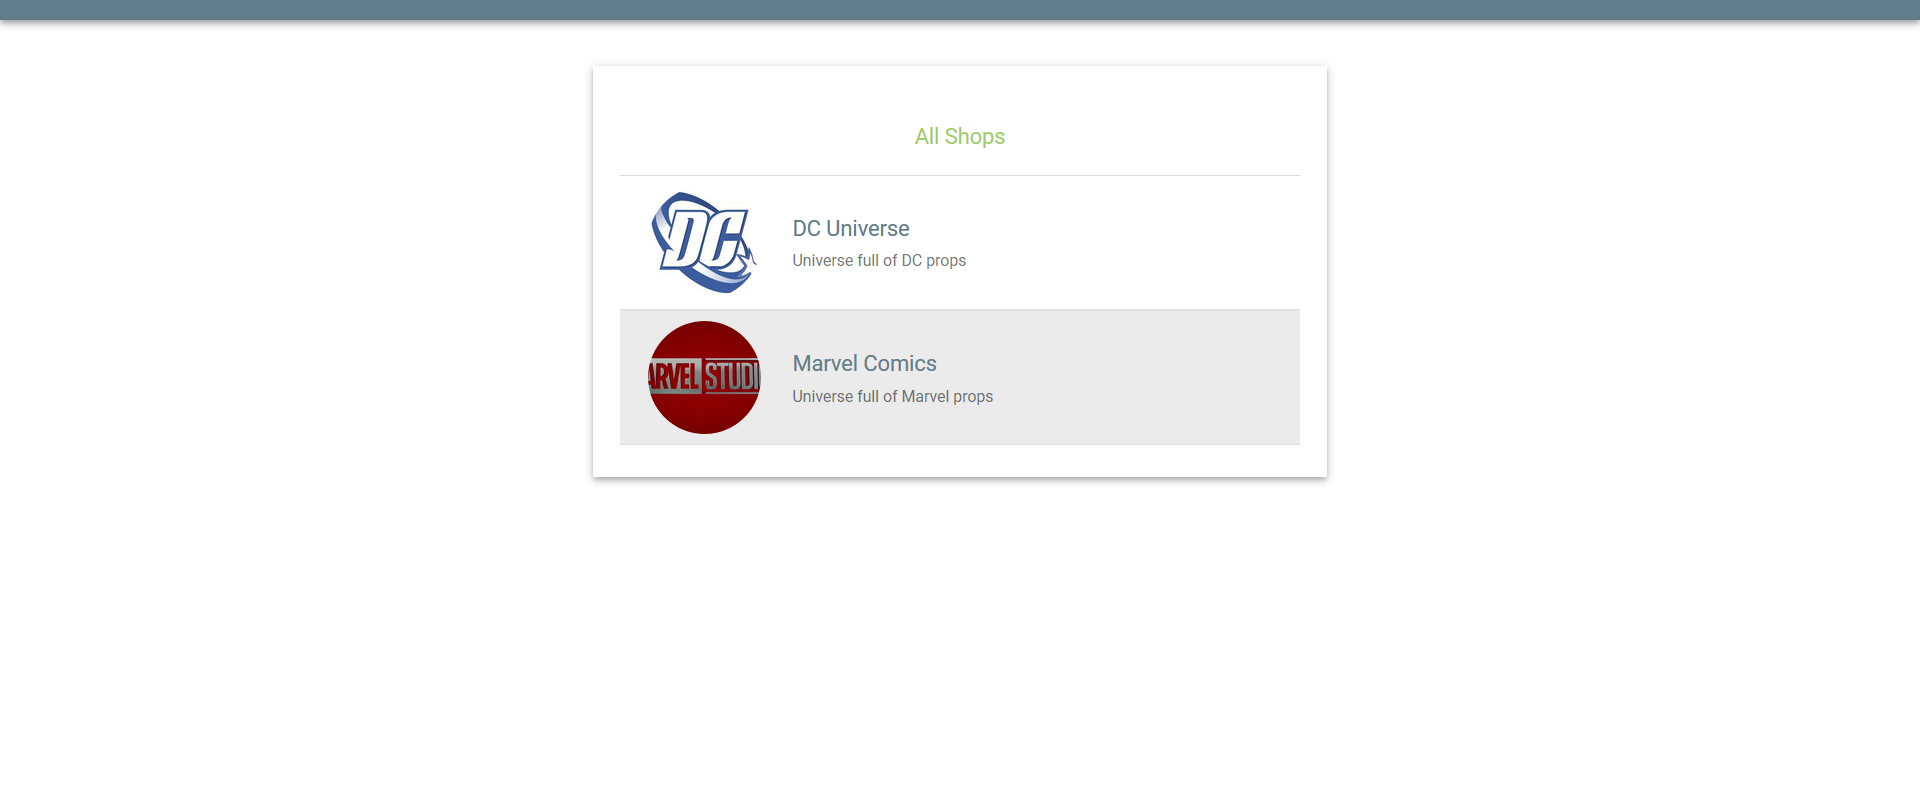
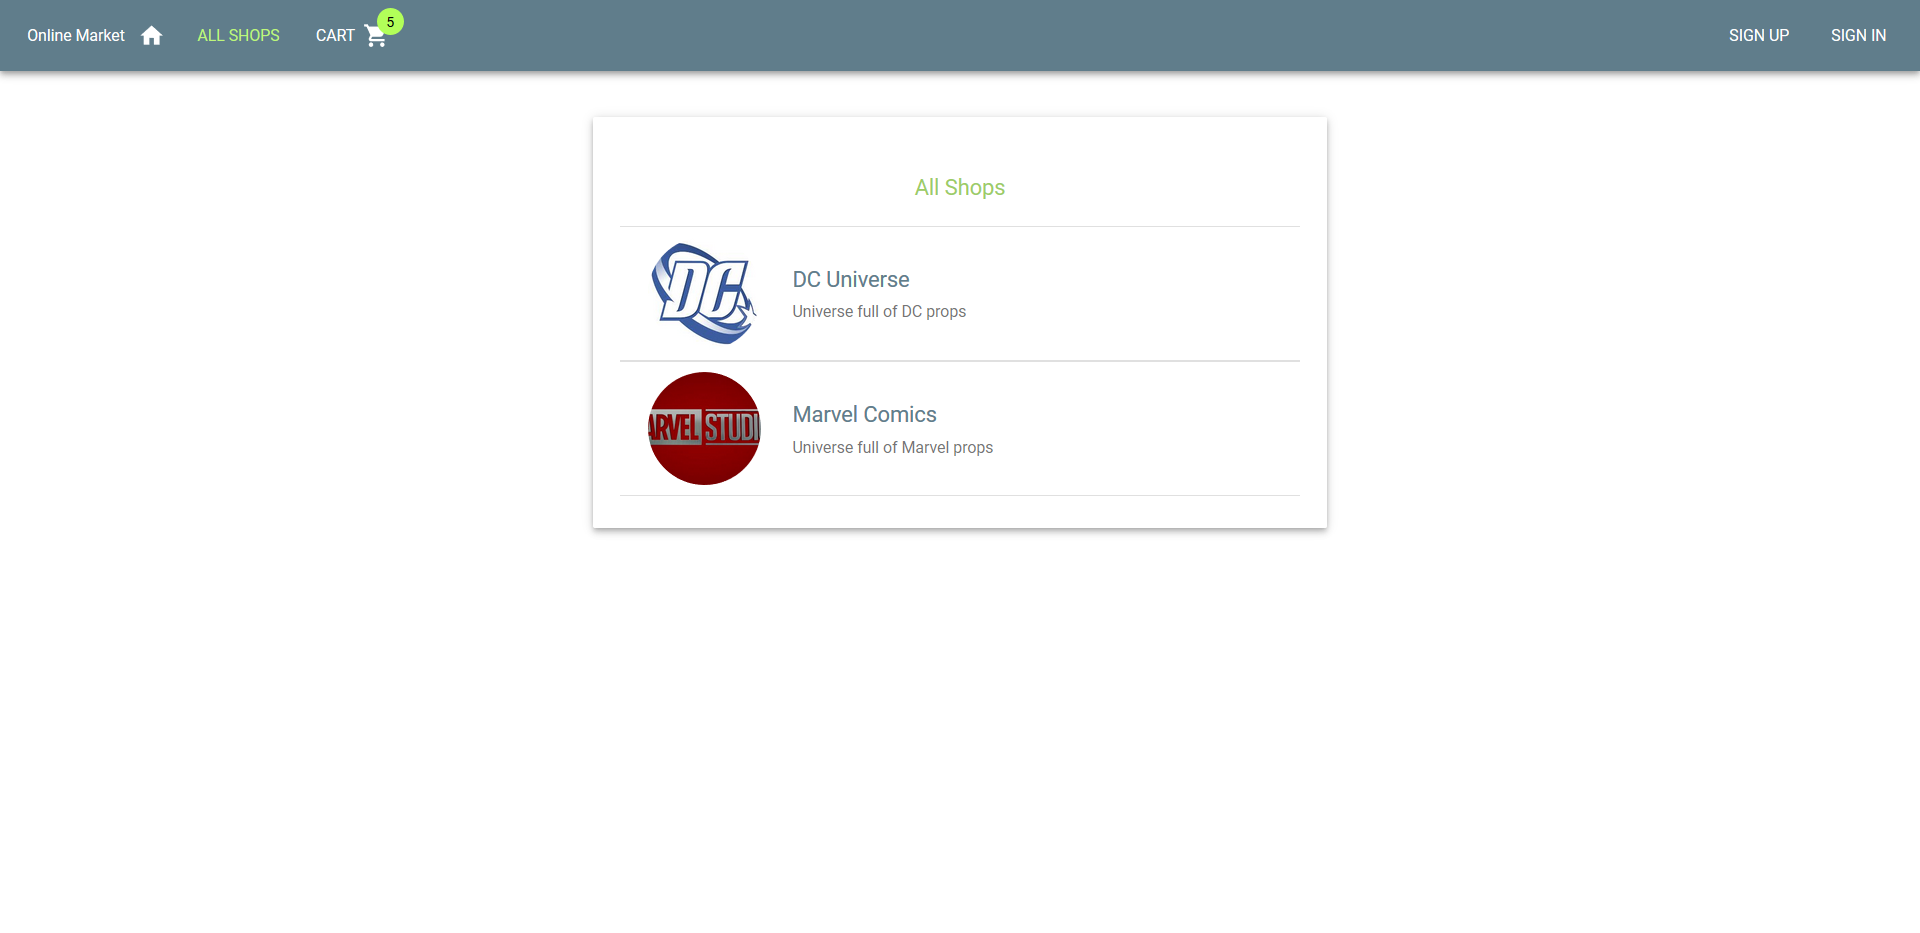
README Second Update

Changed region(s): [[0.0, 0.0, 1.0, 0.0902], [0.3125, 0.2406, 0.6875, 0.6015], [0.4688, 0.1504, 0.5312, 0.2105]]

diff --git a/template.js b/template.js
@@ -3,7 +3,7 @@ export default ({markup, css}) => {
       <html lang="en">
         <head>
           <meta charset="utf-8">
-          <title>MERN Marketplace</title>
+          <title>Online Market</title>
           <link rel="stylesheet" href="https://fonts.googleapis.com/css?family=Roboto:100,300,400">
           <link rel="stylesheet" href="https://fonts.googleapis.com/icon?family=Material+Icons">
           <style>

diff --git a/client/core/Menu.js b/client/core/Menu.js
@@ -27,7 +27,7 @@ const Menu = withRouter(({history}) => (
   <AppBar position="static">
     <Toolbar>
       <Typography type="title" color="inherit">
-        MERN Marketplace
+        Online Market
       </Typography>
       <div>
         <Link to="/">

diff --git a/README.md b/README.md
@@ -2,4 +2,5 @@
 ![MERN Marketplace](client/assets/images/HomePage.png)
 ![MERN Marketplace](client/assets/images/AllShops.png)
 ![MERN Marketplace](client/assets/images/MarvelComics.png)
-![MERN Marketplace](client/assets/images/NinjaBatmanPage.png)
+![MERN Marketplace](client/assets/images/ThorPage.png)
+![MERN Marketplace](client/assets/images/BillPayment.png)
